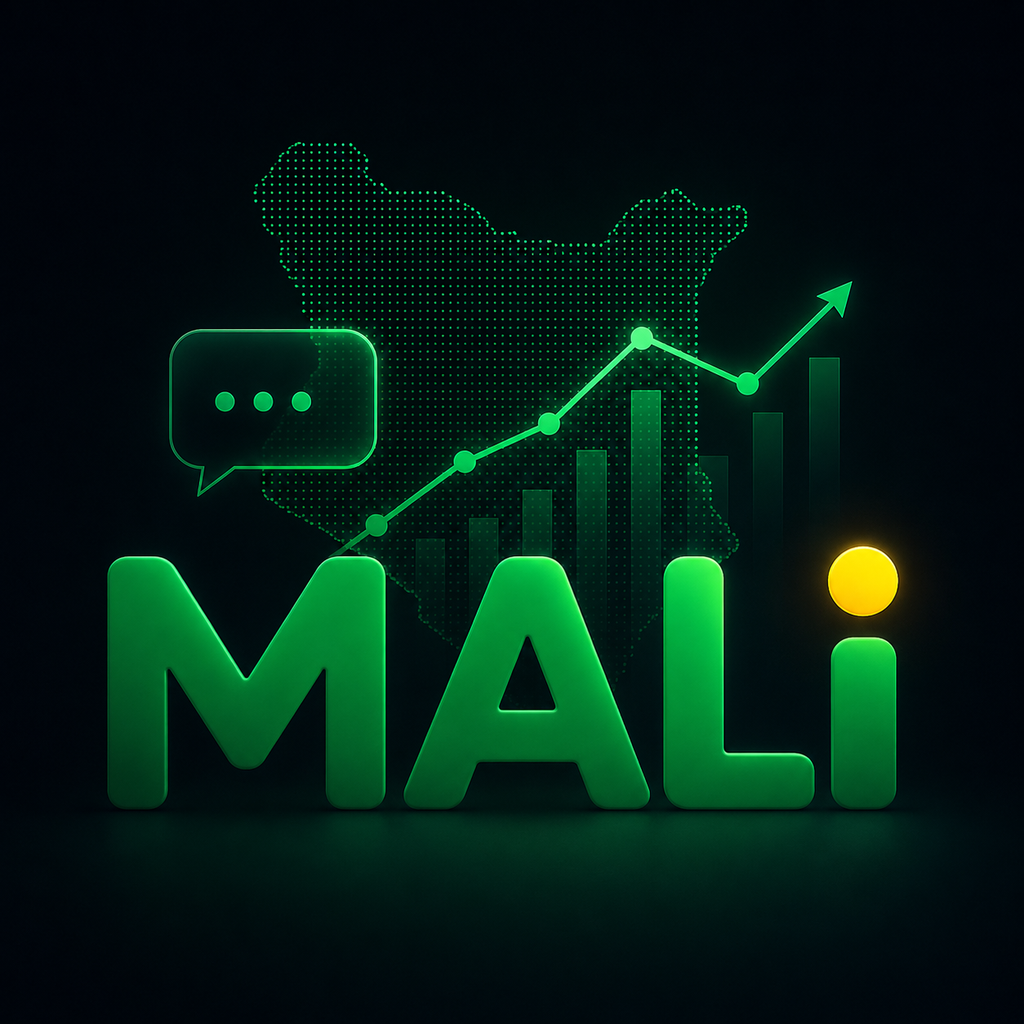
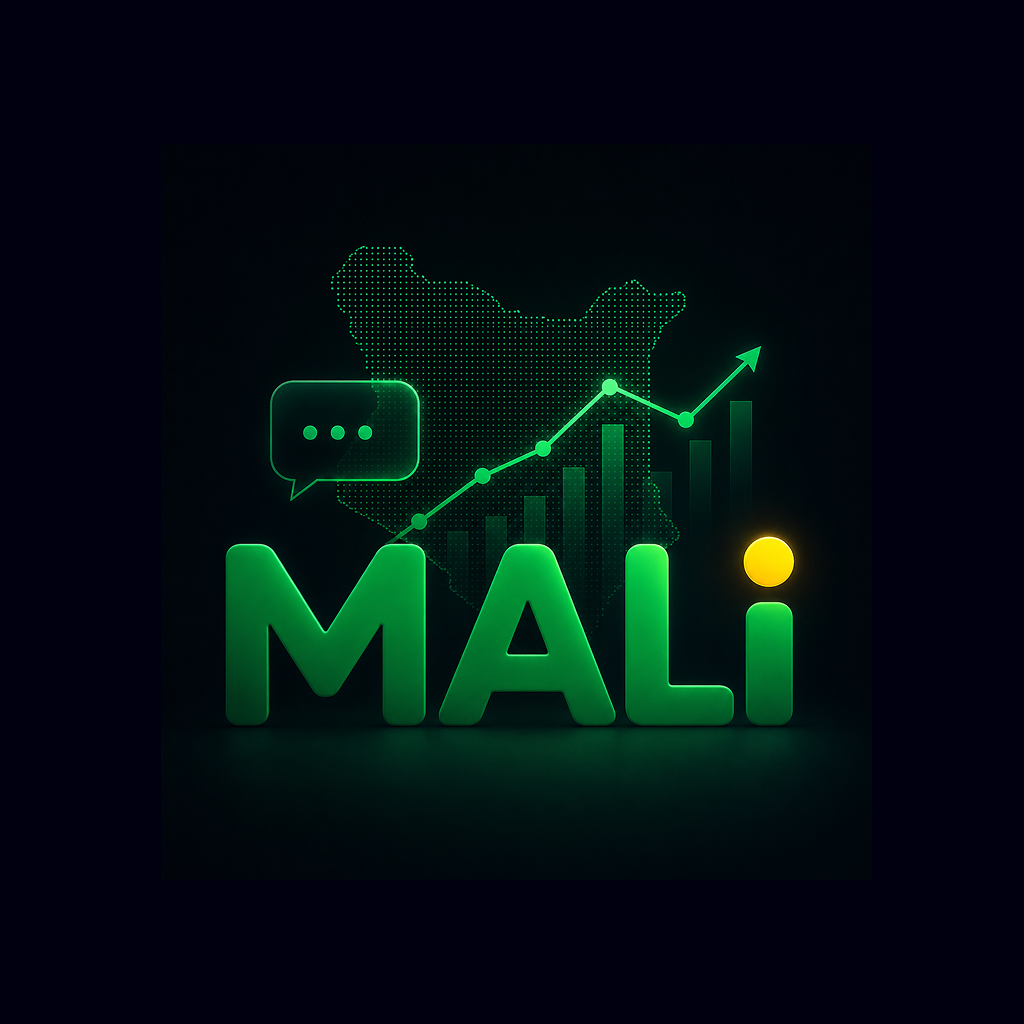
remove redundant images.

Changed region(s): [[0.0938, 0.125, 0.9062, 0.9062], [0.1562, 0.4062, 0.1875, 0.4375]]

diff --git a/app.config.ts b/app.config.ts
@@ -34,14 +34,14 @@ const config: ExpoConfig = {
   owner: 'pyra',
   version: '1.0.0',
   orientation: 'portrait',
-  icon: './assets/app-icons/icon.png',
+  icon: './assets/app-icons/icon.png',  
   scheme: 'mali',
   userInterfaceStyle: 'automatic',
   newArchEnabled: true,
   splash: {
     image: './assets/app-icons/splash.png',
     resizeMode: 'cover',
-    backgroundColor: '#0000',
+    backgroundColor: '#000000',
   },
   runtimeVersion: {
     policy: 'sdkVersion',

diff --git a/services/api.ts b/services/api.ts
@@ -1,5 +1,7 @@
 import axios from "axios";
 
+export const baseUrl = (__DEV__) ? process.env.EXPO_PUBLIC_API_BASE_URL_DEV : process.env.EXPO_PUBLIC_API_BASE_URL_PROD
+
 export const api = axios.create({
-  baseURL: process.env.EXPO_PUBLIC_API_BASE_URL,
+  baseURL: baseUrl,
 });

diff --git a/hooks/user-mali-chat.ts b/hooks/user-mali-chat.ts
@@ -1,5 +1,6 @@
 import { useCallback, useEffect, useMemo, useRef, useState } from 'react';
 import AsyncStorage from '@react-native-async-storage/async-storage';
+import { baseUrl } from '@/services/api';
 
 export type Role = 'user' | 'assistant';
 
@@ -101,7 +102,7 @@ function sanitizeSuggestions(raw: unknown): string[] {
 export function useMaliChat(options: UseMaliChatOptions): UseMaliChatResult {
   const { userId, setQuery } = options;
 
-  const wsBaseUrl = process.env.EXPO_PUBLIC_API_BASE_URL;
+  const wsBaseUrl = baseUrl;
   const wsPath = '/mali/chat/ws';
 
   if (!wsBaseUrl) {

diff --git a/README.md b/README.md
@@ -1,52 +1,206 @@
-# Mali-Mind-Frontend
-An AI-powered Kenyan financial intelligence app that tracks real-world economic events (fuel, food, forex, taxes, electricity, etc.) and translates them into: “What this means for your daily cost of living and business.” It connects news + prices + macro data + AI reasoning to explain impact in simple terms.
+# Mali Frontend
 
+Mali is a mobile-first financial intelligence app focused on Kenya. It tracks real-world economic signals such as fuel prices, food inflation, forex movement, taxes, and electricity costs, then translates them into practical insights people can understand and act on.
 
-This is an [Expo](https://expo.dev) project created with [`create-expo-app`](https://www.npmjs.com/package/create-expo-app).
+The frontend is built with Expo and React Native and is responsible for the user experience across onboarding, personalized dashboards, AI chat, alerts, and economic impact visualizations.
 
-## Get started
+## What the App Does
 
-1. Install dependencies
+- Explains economic events in plain language.
+- Shows users how changes in the market may affect cost of living and business decisions.
+- Provides a curated economic feed and impact-focused dashboards.
+- Offers an AI chat experience for asking questions about money, markets, and everyday impact.
+- Supports authentication, profile management, and notifications.
 
-   ```bash
-   npm install
-   ```
+## Core Screens
 
-2. Start the app
+- Home dashboard
+- Impact analytics
+- Ask Mali chat
+- Economic feed
+- Profile
+- Notifications
+- Authentication flow for sign in, sign up, password reset, and verification
 
-   ```bash
-   npx expo start
-   ```
+## Tech Stack
 
-In the output, you'll find options to open the app in a
+- Expo 54
+- React Native 0.81
+- React 19
+- TypeScript
+- Expo Router for file-based navigation
+- NativeWind for utility-first styling
+- Gluestack UI for UI primitives
+- Redux Toolkit for app state
+- Axios for API access
+- Firebase Authentication
+- EAS Build for app delivery
 
-- [development build](https://docs.expo.dev/develop/development-builds/introduction/)
-- [Android emulator](https://docs.expo.dev/workflow/android-studio-emulator/)
-- [iOS simulator](https://docs.expo.dev/workflow/ios-simulator/)
-- [Expo Go](https://expo.dev/go), a limited sandbox for trying out app development with Expo
+## Project Structure
 
-You can start developing by editing the files inside the **app** directory. This project uses [file-based routing](https://docs.expo.dev/router/introduction).
+```text
+app/                    Route-based screens using Expo Router
+  (auth)/               Authentication flow
+  (tabs)/               Main tab navigation
+assets/                 Icons, backgrounds, animations, and app imagery
+authentication/         Firebase auth setup and auth error handling
+components/             Shared UI and feature-specific components
+constants/              Theme and font constants
+contexts/               Shared React contexts such as theming
+hooks/                  Feature hooks for auth, dashboard, feed, impact, and profile
+redux/                  Global store and slices
+services/               API clients and service integrations
+scripts/                Local utility scripts
+```
 
-## Get a fresh project
+## Navigation Overview
 
-When you're ready, run:
+The application uses Expo Router with grouped routes:
+
+- `app/(auth)` contains the authentication experience.
+- `app/(tabs)` contains the main authenticated tab layout.
+- `app/mali-chat.tsx` is opened as a fullscreen route from the Ask Mali tab.
+- `app/notifications.tsx` provides the notifications screen outside the tab layout.
+
+Main tabs currently include:
+
+- Home
+- Impact
+- Ask Mali
+- Feed
+- Profile
+
+## Getting Started
+
+### Prerequisites
+
+- Node.js 18 or later recommended
+- npm
+- Xcode for iOS simulator development on macOS
+- Android Studio for Android emulator development
+- Expo CLI via `npx expo`
+
+### Install Dependencies
 
 ```bash
+npm install
+```
+
+### Run the App
+
+```bash
+npm run start
+```
+
+You can also run platform-specific commands:
+
+```bash
+npm run ios
+npm run android
+npm run web
+```
+
+## Environment Configuration
+
+This project expects Expo public environment variables for Firebase and the backend API.
+
+Required variables:
+
+```bash
+EXPO_PUBLIC_FIREBASE_API_KEY=
+EXPO_PUBLIC_FIREBASE_AUTH_DOMAIN=
+EXPO_PUBLIC_FIREBASE_PROJECT_ID=
+EXPO_PUBLIC_FIREBASE_STORAGE_BUCKET=
+EXPO_PUBLIC_FIREBASE_MESSAGING_SENDER_ID=
+EXPO_PUBLIC_FIREBASE_APP_ID=
+EXPO_PUBLIC_API_BASE_URL_DEV=
+EXPO_PUBLIC_API_BASE_URL_PROD=
+```
+
+These values are consumed by:
+
+- `authentication/firebase-config.ts`
+- `services/api.ts`
+
+If the Firebase values are missing, the app will fail early during initialization.
+
+## Firebase Setup
+
+The app is configured to use Firebase Authentication.
+
+Local native config files used by the project:
+
+- `GoogleService-Info.plist`
+- `google-services.json`
+
+For EAS or CI builds, `app.config.ts` also supports injecting these files from base64-encoded secrets:
+
+```bash
+IOS_FIREBASE_BASE64=
+ANDROID_FIREBASE_BASE64=
+```
+
+If those secrets are present, the config writes the decoded files during build setup.
+
+## Build and Release
+
+This repository includes EAS configuration in `eas.json`.
+
+Available build profiles:
+
+- `development`
+- `mali-stagging`
+- `mali-production`
+
+Examples:
+
+```bash
+eas build --platform ios --profile development
+eas build --platform android --profile mali-production
+```
+
+App identifiers configured in `app.config.ts`:
+
+- iOS bundle identifier: `com.pyra.mali`
+- Android package: `com.pyra.mali`
+
+## Quality Checks
+
+Run linting with:
+
+```bash
+npm run lint
+```
+
+## Development Notes
+
+- Routing is file-based through Expo Router.
+- The app uses typed routes and React Compiler experiments in Expo config.
+- Theming is shared through the theme context and reused across tabs and screens.
+- API access is centralized through the Axios client in `services/api.ts`.
+
+## Contributing
+
+1. Install dependencies.
+2. Configure the required environment variables.
+3. Run the app locally.
+4. Lint before opening a pull request.
+5. Keep new features aligned with the existing route, hook, and component structure.
+
+## Useful Commands
+
+```bash
+npm run start
+npm run ios
+npm run android
+npm run web
+npm run lint
 npm run reset-project
 ```
 
-This command will move the starter code to the **app-example** directory and create a blank **app** directory where you can start developing.
+## Reference
 
-## Learn more
-
-To learn more about developing your project with Expo, look at the following resources:
-
-- [Expo documentation](https://docs.expo.dev/): Learn fundamentals, or go into advanced topics with our [guides](https://docs.expo.dev/guides).
-- [Learn Expo tutorial](https://docs.expo.dev/tutorial/introduction/): Follow a step-by-step tutorial where you'll create a project that runs on Android, iOS, and the web.
-
-## Join the community
-
-Join our community of developers creating universal apps.
-
-- [Expo on GitHub](https://github.com/expo/expo): View our open source platform and contribute.
-- [Discord community](https://chat.expo.dev): Chat with Expo users and ask questions.
+- [Expo documentation](https://docs.expo.dev/)
+- [Expo Router documentation](https://docs.expo.dev/router/introduction/)
+- [EAS documentation](https://docs.expo.dev/eas/)
+- [Firebase Authentication docs](https://firebase.google.com/docs/auth)